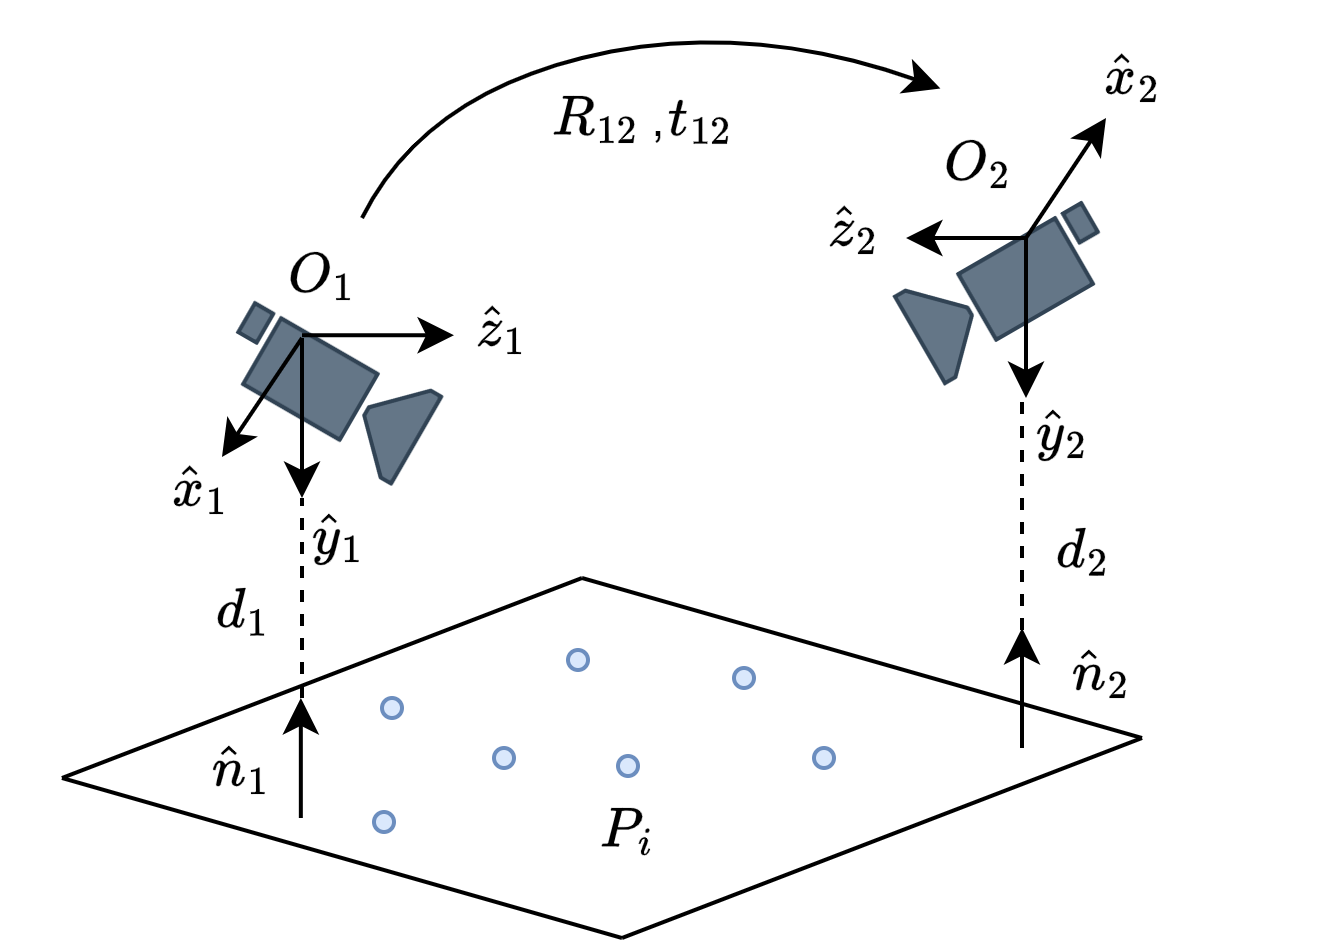
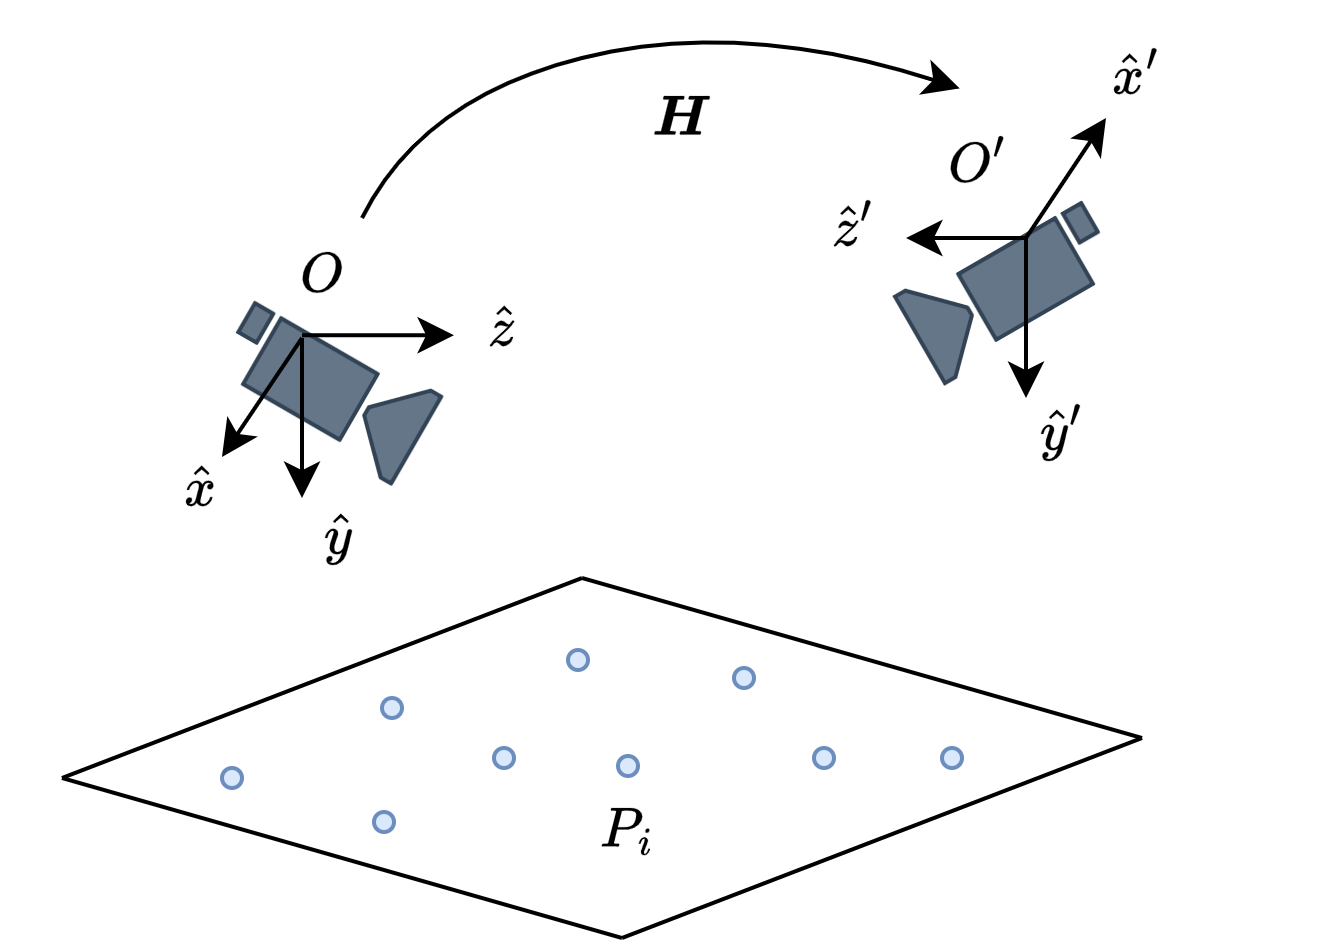
Added appendix with training algorithms on Dreyeve.

diff --git a/chapters/8_appendix/appendix.tex b/chapters/8_appendix/appendix.tex
@@ -1,0 +1,63 @@
+\begin{appendices}
+    \chapter{Training Algorithms}
+    \begin{algorithm}
+        \nextfloat{\caption{Preprocessing of DR(eye)VE dataset}}
+        \vspace{0.2cm}
+        \DontPrintSemicolon
+        \textit{trainSet, valSet, testSet, ulSet} $\gets$ \textbf{Dreyeve}(\textit{splitIdxs, resolution, fps})\;
+        \textit{validator} $\gets$ \textbf{RetinaNet}(\,)\;
+        \For{\textit{set} $\gets$ \{\textit{trainSet, valSet, testSet}\}}{
+            \textit{labels} $\gets$ validator(\textit{set})\;
+            \textit{set.labels} $\gets$ \textit{labels}\;
+        }
+        \textbf{save} \textit{trainSet, valSet, testSet, ulSet}\;
+    \end{algorithm}
+    \begin{algorithm}
+        \nextfloat{\caption{Semi-supervised training with Meta-Pseudo Labels}}
+        \vspace{0.2cm}
+        \DontPrintSemicolon
+        \textit{trainSet, valSet, testSet, ulSet} $\gets$ \textbf{load} data\;
+        \textit{teacher} $\gets$ \textbf{ViT}(\textit{patch, depth, embedding, mlp, heads})\;
+        \textit{student} $\gets$ \textbf{ViT}(\textit{patch, depth, embedding, mlp, heads})\;
+        \While{$\text{training}$}{
+            \textit{pseudoLabels} $\gets$ \textit{teacher}(\textit{ulSet})\;
+            \text{train(\textit{student, ulSet, pseudoLabels})}\;
+            \text{train(\textit{student, trainSet})}\;
+            \text{train(\textit{teacher, trainSet})}\;
+            \textit{metrics} $\gets$ \text{validate(\textit{student, valSet})}\;
+            \text{validate(\textit{teacher, valSet})}\;
+            \If {$\textit{metrics.accuracy}$ \text{is increased}}{
+                \textbf{save} \textit{student}\;
+            }
+        }
+    \end{algorithm}
+    \begin{algorithm}
+        \nextfloat{\caption{Update training set with $N$ wrong predictions}}
+        \vspace{0.2cm}
+        \DontPrintSemicolon
+        \textit{trainSet} $\gets$ \textbf{load} \text{training set}\;
+        \textit{model} $\gets$ \textbf{load} \text{trained model}\;
+        \textit{validator} $\gets$ \textbf{RetinaNet}(\,)\;
+        \textit{S.count, S.max} $\gets$ $0, \,N/2$\;
+        \textit{D.count, D.max} $\gets$ $0, \,N/2$\;
+        \For{sample $\gets$ \textit{ulSet}}{
+            \If{(\textit{S.count = S.max}) \textbf{and} (\textit{D.count = D.max})}{
+                \textbf{break}\;
+            }
+            \textit{label} $\gets$ \textit{validator}(\textit{sample})\;
+            \textit{pred} $\gets$ \textit{model}(\textit{sample})\;
+            \If{\textit{pred} $=$ \textit{label}}{
+                \textbf{continue}\;
+            }
+            \If{(\textit{label=Safe}) \textbf{and} (\textit{S.count \textless S.max})}{
+                \textit{trainSet} $\gets$ (\textit{sample, label})\;
+                \textit{S.count} $\gets$ \textit{S.count} $+1$\;
+            }
+            \If{(\textit{label=Dangerous}) \textbf{and} (\textit{D.count \textless D.max})}{
+                \textit{trainSet} $\gets$ (\textit{sample, label})\;
+                \textit{D.count} $\gets$ \textit{D.count} $+1$\;
+            }
+        }
+        \textbf{save} \textit{trainSet}\;
+    \end{algorithm}
+\end{appendices}

diff --git a/chapters/3_background/background.tex b/chapters/3_background/background.tex
@@ -574,6 +574,13 @@ sensor.
 However, the transformation can also be seen between two cameras, if all points 
 in the Euclidean space lie on the same plane.
 
+In Figure \ref{fig:homography_scheme} the homography transformation between two 
+camera planes is represented. Two cameras, with their own system of coordinates, 
+are pointing to the same plane. All points in the Euclidean space lie on the 
+same plane, and they are projected on the two cameras' planes. The homography 
+matrix $\boldsymbol{H}$ is the transformation of the projected points between 
+the two camera planes.
+
 Considering a general point $P_i \in \mathbb{R}^{3}$ in the Euclidean space, 
 lying on a plane, and its correspondent projections on the two cameras' planes
 $\boldsymbol{p_i}, \boldsymbol{p_i'} \in \mathbb{R}^{2}$.
@@ -615,8 +622,9 @@ can be rewritten as follows:
     \includegraphics[width=0.6\textwidth]{images/dreyeve/homography.png}
     \vspace{0.2cm}
     \caption[Homography scheme.]
-    {Homography between two images. The transformation matrix defines the 
-    relative pose between the two cameras. All points lie on the same plane.}
+    {Homography between two planes. The transformation matrix defines the 
+    projection between the camera planes. All points in the Euclidean space 
+    lie on the same plane.}
     \label{fig:homography_scheme}
 \end{figure}
 

diff --git a/main.tex b/main.tex
@@ -9,6 +9,7 @@
 
 
 \usepackage{lipsum}
+\usepackage[toc,page]{appendix}
 \usepackage{afterpage}
 \usepackage{bm}
 \usepackage{graphicx}
@@ -55,6 +56,7 @@
 \usepackage{amsmath}
 \usepackage{acronym}
 \usepackage{xcolor}
+\usepackage[ruled]{algorithm2e}
 
 % Define a new command let Stefano insert his comments
 \newcommand{\stext}[1]{\color{teal}\rule{\linewidth}{1mm}
@@ -116,6 +118,8 @@
 % \include{chapters/6_discussion/discussion.tex}
 %
 \include{chapters/7_conclusion/conclusion.tex}
+%
+\include{chapters/8_appendix/appendix.tex}
 %
 \printbibliography
 %
